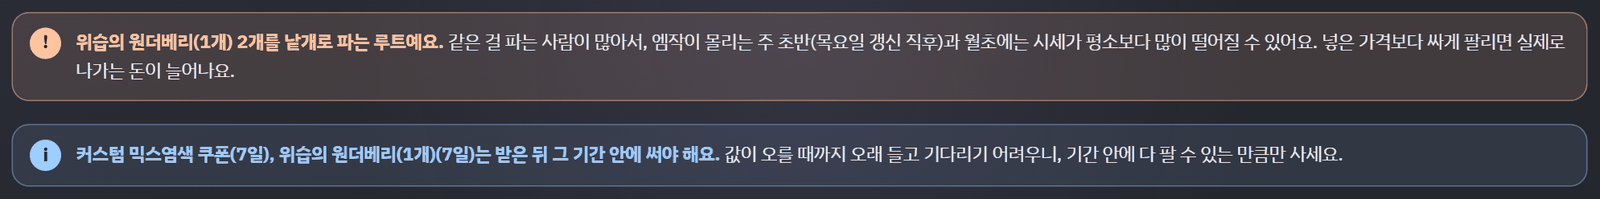
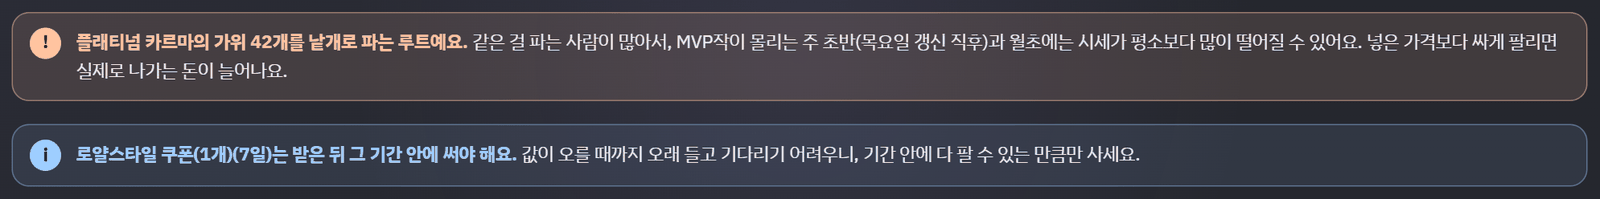
메포를 1,000원 단위로 사고 메포 결제에도 크레딧을 쌓는다
소개글은 MVP작 표현으로 바꾸고 플가 기준 루트 비교 예시를 넣는다.

Changed region(s): [[0.0312, 0.1508, 1.0, 0.2714], [0.0312, 0.7236, 0.8438, 0.8442], [0.0312, 0.3015, 0.1875, 0.4221]]

diff --git a/docs/post/eff-inven.html b/docs/post/eff-inven.html
@@ -5,8 +5,8 @@
 <div style="margin-top:6px; font-size:14px; color:#9a9cab;">위쪽 탭에서 <b style="color:#ecebf2;">효율표</b>를 누르세요</div>
 </div>
 
-<div style="margin-bottom:16px;">안녕하세요. 지난번에 올렸던 MVP 현황/목표 계산기에 <b>엠작 효율표</b>를 붙였습니다.</div>
-<div style="margin-bottom:20px;">엠작 계산기들이 회수율 %는 알려 주는데, 막상 "그래서 실제로 얼마가 나가는데? 뭘 몇 개 사서 어떻게 팔아야 하는데?"는 직접 조합해 봐야 하더라고요. 그걸 한 화면에서 끝내 주는 탭입니다.</div>
+<div style="margin-bottom:16px;">안녕하세요. 지난번에 올렸던 MVP 현황/목표 계산기에 <b>MVP작 효율표</b>를 붙였습니다.</div>
+<div style="margin-bottom:20px;">MVP작 계산기들이 회수율 %는 알려 주는데, 막상 "그래서 실제로 얼마가 나가는데? 뭘 몇 개 사서 어떻게 팔아야 하는데?"는 직접 조합해 봐야 하더라고요. 그걸 한 화면에서 끝내 주는 탭입니다.</div>
 
 <ul style="margin:0 0 20px; padding-left:22px;">
 <li style="margin-bottom:6px;"><b>플가 가격 하나만 넣으면</b> 다른 아이템마다 "이 가격 넘으면 플가보다 이득"인 기준가가 붙어요</li>
@@ -16,12 +16,11 @@
 <li style="margin-bottom:6px;"><b>목표 계획과 연동</b>하면 주마다 무엇을 얼마나 충전하고 사서 팔지 주별로</li>
 </ul>
 
-<div style="font-size:14px; color:#7b7c8a; margin-bottom:8px;">엄 시세·메소마켓·경매장 가격은 직접 넣는 방식이에요. 넥슨이 공식으로 주는 시세 데이터가 없어서요.</div>
 
 
 <div style="font-size:22px; font-weight:700; border-left:4px solid #6a4fd6; padding-left:11px; margin:38px 0 14px;">1. 입력은 위쪽 세 칸</div>
 <div style="margin-bottom:14px;">얼마나 결제할지, 캐시는 얼마에 충전하는지, 시세. 이 세 가지만 넣으면 돼요.</div>
-<img src="https://maple-mvp.com/post/eff/1-inputs.png?v=2" alt="입력 칸" style="width:100%; max-width:800px;">
+<img src="https://maple-mvp.com/post/eff/1-inputs.png?v=3" alt="입력 칸" style="width:100%; max-width:800px;">
 <ul style="margin:14px 0 0; padding-left:22px;">
 <li style="margin-bottom:6px;">목표 계획이 있으면 <b>목표 계획대로</b>, 없으면 <b>금액 직접</b>. 내 13주 합계 기준으로 "다이아까지 / 레드까지 / 블랙까지" 버튼도 있어요.</li>
 <li style="margin-bottom:6px;">상품권 할인은 <b>6</b>처럼 %로 넣어도, <b>47,000</b>처럼 5만원권 가격으로 넣어도 돼요.</li>
@@ -31,19 +30,19 @@
 
 <div style="font-size:22px; font-weight:700; border-left:4px solid #6a4fd6; padding-left:11px; margin:38px 0 14px;">2. 플가 가격 하나로 기준가</div>
 <div style="margin-bottom:14px;">왼쪽에 플가 가격만 넣으면, 아이템마다 흐린 숫자로 <b>이 가격 넘으면 플가보다 이득</b>인 기준가가 들어가요. 경매장에서 그보다 비싸게 올라온 것만 가격을 넣으면 됩니다.</div>
-<img src="https://maple-mvp.com/post/eff/2-table.png?v=2" alt="플가 기준 가격표" style="width:100%; max-width:800px;">
+<img src="https://maple-mvp.com/post/eff/2-table.png?v=3" alt="플가 기준 가격표" style="width:100%; max-width:800px;">
 <ul style="margin:14px 0 0; padding-left:22px;">
 <li style="margin-bottom:6px;">플가 줄을 경계로 위는 <b style="color:#1f8f67;">이득(초록)</b>, 아래는 <b style="color:#c26a32;">손해(주황)</b>. 플가 가격을 바꾸면 바로 다시 줄 서요.</li>
 <li style="margin-bottom:6px;"><b>플가 가격으로</b> 버튼을 누르면 "이 가격이면 플가를 몇 억에 판 셈인지"로 바꿔 볼 수 있어요.</li>
 <li style="margin-bottom:6px;">7일 / 14일 / 30일 / 무기한 사용 기간도 같이 보여요. 손해 보는 아이템은 숨길 수 있어요.</li>
 </ul>
-<div style="margin-top:14px;"><img src="https://maple-mvp.com/post/eff/2b-table-hidden.png?v=2" alt="손해 아이템 숨기기" style="width:100%; max-width:740px;"></div>
+<div style="margin-top:14px;"><img src="https://maple-mvp.com/post/eff/2b-table-hidden.png?v=3" alt="손해 아이템 숨기기" style="width:100%; max-width:740px;"></div>
 
 
 <div style="font-size:22px; font-weight:700; border-left:4px solid #6a4fd6; padding-left:11px; margin:38px 0 14px;">3. 메이플 크레딧까지</div>
-<img src="https://maple-mvp.com/post/eff/5b-credit.png?v=2" alt="메이플 크레딧" style="width:100%; max-width:800px;">
+<img src="https://maple-mvp.com/post/eff/5b-credit.png?v=3" alt="메이플 크레딧" style="width:100%; max-width:800px;">
 <ul style="margin:14px 0 0; padding-left:22px;">
-<li style="margin-bottom:6px;">캐시템을 산 금액의 5%가 크레딧으로 쌓여요. 남아 있던 크레딧도 합쳐서 계산해요.</li>
+<li style="margin-bottom:6px;">캐시샵에서 쓴 캐시의 5%가 크레딧으로 쌓여요. 캐시템도, 메소마켓에 팔 <b>메이플포인트를 살 때도</b> 똑같이 쌓여요. 남아 있던 크레딧도 합쳐서 계산해요.</li>
 <li style="margin-bottom:6px;">큐브 경매장 가격을 넣으면 크레딧당 효율이 가장 좋은 걸로 사서 파는 것까지 결과에 들어가요.</li>
 <li style="margin-bottom:6px;">끝에 남는 크레딧은 <b>다 털기 / 모아 두기</b> 중에 골라요. 모아 두면 에디셔널 큐브만 사고, 나머지는 다음 작 때 합쳐요.</li>
 </ul>
@@ -51,20 +50,33 @@
 
 <div style="font-size:22px; font-weight:700; border-left:4px solid #6a4fd6; padding-left:11px; margin:38px 0 14px;">4. 결론: 실제로 나가는 돈과 루트 3개</div>
 <div style="margin-bottom:14px;">가장 크게 보이는 숫자가 <b>실제로 나가는 돈</b>(넣은 현금 − 돌려받는 돈)이에요.</div>
-<img src="https://maple-mvp.com/post/eff/3-result.png?v=2" alt="결론" style="width:100%; max-width:800px;">
+<img src="https://maple-mvp.com/post/eff/3-result.png?v=3" alt="결론" style="width:100%; max-width:800px;">
 <ul style="margin:14px 0 0; padding-left:22px;">
 <li style="margin-bottom:6px;"><b>최저가 루트</b>: 판매 횟수는 따지지 않고 가장 적게 잃는 조합</li>
 <li style="margin-bottom:6px;"><b>최적화 루트</b>: 판매를 한 번 줄일 때 더 드는 돈이 <b>판매 1회 수고비(기본 2,000원)</b> 이하일 때만 줄인 조합. 수고비는 직접 바꿀 수 있어요.</li>
 <li style="margin-bottom:6px;">그래프로 판매 횟수를 줄이면 얼마나 비싸지는지 한눈에 보여요.</li>
 </ul>
+<div style="font-size:18px; font-weight:700; margin:26px 0 10px;">예시로 보면</div>
+<div style="margin-bottom:10px;">플가가 3억이라 효율 1, 2등을 다투고, 전승 스크롤·원더베리 11개가 바로 뒤(0.99플가)에 있는 흔한 상황이에요. 25만 원 결제, 수수료 3%, 크레딧 큐브까지 넣은 결과예요.</div>
+<table style="width:100%; max-width:800px; border-collapse:collapse; font-size:15px; margin-bottom:12px;">
+<tr><th style="padding:8px 10px; background:#f1eefc; text-align:left;">루트</th><th style="padding:8px 10px; background:#f1eefc; text-align:left;">무엇을 사서 파나</th><th style="padding:8px 10px; background:#f1eefc; text-align:right;">판매</th><th style="padding:8px 10px; background:#f1eefc; text-align:right;">실제로 나가는 돈</th></tr>
+<tr><td style="padding:8px 10px; border-bottom:1px solid #e3e3ea;"><b>최저가</b></td><td style="padding:8px 10px; border-bottom:1px solid #e3e3ea;">플가 42개 + 로얄 1개</td><td style="padding:8px 10px; border-bottom:1px solid #e3e3ea; text-align:right; white-space:nowrap;">43회</td><td style="padding:8px 10px; border-bottom:1px solid #e3e3ea; text-align:right; white-space:nowrap;"><b>41,340원</b></td></tr>
+<tr><td style="padding:8px 10px; border-bottom:1px solid #e3e3ea;"><b style="color:#6a4fd6;">최적화</b></td><td style="padding:8px 10px; border-bottom:1px solid #e3e3ea;">전승 스크롤 2개 + 원더베리(11개) 1세트</td><td style="padding:8px 10px; border-bottom:1px solid #e3e3ea; text-align:right; white-space:nowrap;">3회</td><td style="padding:8px 10px; border-bottom:1px solid #e3e3ea; text-align:right; white-space:nowrap;"><b>44,358원</b> <span style="color:#7b7c8a;">(+3,019원)</span></td></tr>
+<tr><td style="padding:8px 10px; border-bottom:1px solid #e3e3ea;"><b>횟수 정하기</b></td><td style="padding:8px 10px; border-bottom:1px solid #e3e3ea;">최대 5회로 정했을 때</td><td style="padding:8px 10px; border-bottom:1px solid #e3e3ea; text-align:right; white-space:nowrap;">5회</td><td style="padding:8px 10px; border-bottom:1px solid #e3e3ea; text-align:right; white-space:nowrap;"><b>44,019원</b> <span style="color:#7b7c8a;">(+2,679원)</span></td></tr>
+</table>
+<div style="margin-bottom:10px;">최저가는 가장 싸지만 경매장에 <b>43번</b> 올려야 해요. 최적화는 <b>3,019원</b>만 더 내고 판매를 <b>40번</b> 줄여요. 한 번 줄일 때 평균 <b>75원</b>이라 수고비 2,000원보다 훨씬 싸니 줄이는 게 이득이에요.</div>
+<div style="margin-bottom:10px;">반대로 한 번 줄이는 데 2,000원 넘게 드는 구간이면 최적화는 거기서 멈춰요. 그래서 전승 스크롤이 플가보다 효율이 한참 떨어지는 날에는 최적화도 플가 위주로 나와요.</div>
+<div style="margin-bottom:14px;">목표 계획(블랙까지 8주)으로 넓히면 차이가 더 커요. 최저가 <b>350,816원 · 368회</b>, 최적화 <b>375,957원 · 32회</b>. 25,141원 더 내고 경매장에 336번 덜 올려요.</div>
+<img src="https://maple-mvp.com/post/eff/3b-best.png?v=3" alt="최저가 루트" style="width:100%; max-width:800px;">
+
 <div style="margin:18px 0 14px;">그 아래에 <b>그대로 따라 하면 되는 순서</b>가 나와요.</div>
-<img src="https://maple-mvp.com/post/eff/5-route.png?v=2" alt="따라 할 순서" style="width:100%; max-width:800px;">
+<img src="https://maple-mvp.com/post/eff/5-route.png?v=3" alt="따라 할 순서" style="width:100%; max-width:800px;">
 
 
 <div style="font-size:22px; font-weight:700; border-left:4px solid #6a4fd6; padding-left:11px; margin:38px 0 14px;">5. 목표 계획과 이으면 주별로</div>
 <div style="margin-bottom:14px;">"11월 18일까지 블랙" 같은 계획이 있으면, 계획의 주별 금액 그대로 주마다 무엇을 얼마나 충전하고 사서 팔지 나눠 줘요.</div>
-<img src="https://maple-mvp.com/post/eff/8-plan-result.png?v=2" alt="계획 결론" style="width:100%; max-width:800px;">
-<div style="margin-top:14px;"><img src="https://maple-mvp.com/post/eff/9-weeks.png?v=2" alt="주별 표" style="width:100%; max-width:800px;"></div>
+<img src="https://maple-mvp.com/post/eff/8-plan-result.png?v=3" alt="계획 결론" style="width:100%; max-width:800px;">
+<div style="margin-top:14px;"><img src="https://maple-mvp.com/post/eff/9-weeks.png?v=3" alt="주별 표" style="width:100%; max-width:800px;"></div>
 <ul style="margin:14px 0 0; padding-left:22px;">
 <li style="margin-bottom:6px;">상품권은 할인이 큰 것부터, 그 달 한도가 남은 주에 써요. 달이 바뀌면 한도가 새로 생겨요.</li>
 <li style="margin-bottom:6px;">크레딧은 주마다 모아 가며 가장 효율적으로 털어요.</li>
@@ -74,26 +86,25 @@
 
 <div style="font-size:22px; font-weight:700; border-left:4px solid #6a4fd6; padding-left:11px; margin:38px 0 14px;">6. 판매 횟수 정하기</div>
 <div style="margin-bottom:14px;">"경매장에 몇십 번 올리긴 귀찮다" 하시면 판매 횟수를 정해 두고 그 안에서 가장 많이 남는 조합을 볼 수 있어요. 최저가보다 얼마 더 드는지도 같이 나와요.</div>
-<img src="https://maple-mvp.com/post/eff/10-count.png?v=2" alt="판매 횟수 정하기" style="width:100%; max-width:800px;">
-<div style="margin-top:14px;"><img src="https://maple-mvp.com/post/eff/4-cautions.png?v=2" alt="주의 문구" style="width:100%; max-width:800px;"></div>
-<div style="font-size:14px; color:#7b7c8a; margin-top:10px;">판매 횟수는 경매장에 올리는 횟수만 세요. 얼마나 빨리 팔리는지(회전율)는 계산에 없으니 실제로 팔리는 속도를 보고 고르세요.<br>플가·원더베리처럼 낱개로 많이 파는 루트는 엠작이 몰리는 주 초반·월초에 시세가 떨어질 수 있어요.</div>
+<img src="https://maple-mvp.com/post/eff/10-count.png?v=3" alt="판매 횟수 정하기" style="width:100%; max-width:800px;">
+<div style="margin-top:14px;"><img src="https://maple-mvp.com/post/eff/4-cautions.png?v=3" alt="주의 문구" style="width:100%; max-width:800px;"></div>
+<div style="font-size:14px; color:#7b7c8a; margin-top:10px;">판매 횟수는 경매장에 올리는 횟수만 세요. 얼마나 빨리 팔리는지(회전율)는 계산에 없으니 실제로 팔리는 속도를 보고 고르세요.<br>플가·원더베리처럼 낱개로 많이 파는 루트는 MVP작이 몰리는 주 초반·월초에 시세가 떨어질 수 있어요.</div>
 
 
 <div style="font-size:22px; font-weight:700; border-left:4px solid #6a4fd6; padding-left:11px; margin:38px 0 14px;">7. 나에게 맞는 방법</div>
 <div style="margin-bottom:14px;">천천히 기다릴 수 있는지, 빨리 메소로 바꾸고 싶은지, 판매 횟수를 줄이고 싶은지에 따라 맞는 아이템과 그때 얼마가 나가는지 보여 줘요.</div>
-<img src="https://maple-mvp.com/post/eff/6-styles.png?v=2" alt="나에게 맞는 방법" style="width:100%; max-width:800px;">
+<img src="https://maple-mvp.com/post/eff/6-styles.png?v=3" alt="나에게 맞는 방법" style="width:100%; max-width:800px;">
 
 
 <div style="font-size:22px; font-weight:700; border-left:4px solid #6a4fd6; padding-left:11px; margin:38px 0 14px;">8. 목록에 없는 아이템은 직접 추가</div>
 <div style="margin-bottom:14px;">이름, 캐시 가격, 묶음 개수, 사용 기간만 넣으면 플가 기준가가 자동으로 붙고 계산에 들어가요.</div>
-<img src="https://maple-mvp.com/post/eff/7-add.png?v=2" alt="직접 추가" style="width:100%; max-width:740px;">
+<img src="https://maple-mvp.com/post/eff/7-add.png?v=3" alt="직접 추가" style="width:100%; max-width:740px;">
 
 
 <div style="font-size:22px; font-weight:700; border-left:4px solid #6a4fd6; padding-left:11px; margin:38px 0 14px;">알아 두실 것</div>
 <ul style="margin:0; padding-left:22px;">
 <li style="margin-bottom:6px;">넣은 값은 이 브라우저에 저장되고, <b>로그인하면 계정에도 저장</b>돼서 다른 기기에서도 이어서 쓸 수 있어요.</li>
-<li style="margin-bottom:6px;">시세는 "며칠 전에 넣은 값"으로 표시돼요. 오래된 값이면 새로 넣어 주세요.</li>
-<li style="margin-bottom:6px;">크레딧은 캐시샵 아이템을 살 때만 쌓인다고 보고 계산해요(메이플포인트로 사는 메소마켓 몫은 빼요).</li>
+<li style="margin-bottom:6px;">메이플포인트는 1,000원 단위로만 살 수 있어서, 계획대로 결제할 때 딱 못 맞추면 1,000원 안쪽으로 조금 더 결제하는 루트가 나올 수 있어요.</li>
 <li style="margin-bottom:6px;">위 그림의 숫자는 예시예요.</li>
 </ul>
 

diff --git a/frontend/src/lib/core/efficiency.test.ts b/frontend/src/lib/core/efficiency.test.ts
@@ -56,12 +56,24 @@ describe('조합', () => {
     expect(minPrice(3, 99_000)).toBeCloseTo(50.339, 2)
   })
 
-  it('가장 많이 남게: 플가로 채우고 끝자리는 메소마켓', () => {
+  it('계획: 계획 금액에 딱 맞는 조합 중에서 고른다(메포는 1,000원 단위)', () => {
+    // 99,000원에 딱 맞는 건 전승 1장, 플가 10개 + 메포 4만, 메포 9.9만뿐. 플가 16개 + 메포 4,600원은 메포 단위가 안 맞는다
     const r = solve({ ...base, target: 99_000, items: [karma, potential] })!
-    expect(r.best.lines).toEqual([{ item: karma, n: 16 }])
-    expect(r.best.market).toBe(4_600)
-    expect(r.best.sales).toBe(17)
-    expect(r.best.back).toBeCloseTo(16 * 3 * 0.97 * 1500 + 4600 / 2300 * 1500)
+    expect(r.best.pay).toBe(99_000)
+    expect(r.best.lines).toEqual([{ item: potential, n: 1 }])
+    expect(r.best.market % 1000).toBe(0)
+  })
+
+  it('금액 직접: 조금 넘겨 사는 게 더 남으면 그렇게 한다', () => {
+    const r = solve({ ...base, target: 99_000, items: [karma, potential], exact: false })!
+    expect(r.best.lines).toEqual([{ item: karma, n: 17 }])
+    expect(r.best.pay).toBe(100_300)
+  })
+
+  it('메포로 끝자리를 채울 때는 1,000원 단위로 올려 산다', () => {
+    const r = solve({ ...base, target: 99_000, items: [karma], exact: false })!
+    expect(r.best.market % 1000).toBe(0)
+    expect(r.best.pay).toBe(r.best.lines.reduce((a, l) => a + l.n * l.item.cash, 0) + r.best.market)
   })
 
   it('판매 1회로 정하면 전승 스크롤 한 장이 메소마켓보다 낫다', () => {
@@ -69,7 +81,7 @@ describe('조합', () => {
     const one = r.routeAt(1)
     expect(one.lines).toEqual([{ item: potential, n: 1 }])
     expect(one.sales).toBe(1)
-    expect(one.loss).toBeGreaterThan(r.best.loss)
+    expect(one.loss).toBeGreaterThanOrEqual(r.best.loss)
     expect(r.lossAt[1]).toBeCloseTo(one.loss)
     // 횟수가 늘면 잃는 돈은 줄거나 같다
     for (let k = 2; k < r.lossAt.length; k++) expect(r.lossAt[k]).toBeLessThanOrEqual(r.lossAt[k - 1] + 1e-6)
@@ -141,15 +153,21 @@ describe('모든 조합을 다 따져 본 답과 같다', () => {
 
       // 다 대입: 아이템 개수 조합 + 남는 금액은 메소마켓(있으면 1회)
       const keep = 0.97 * 1500, mk1 = mk ? 1500 / mk : 0
-      const top = Math.ceil(target / 100) * 100 + Math.max(...items.map(x => x.cash))
+      const T100 = Math.ceil(target / 100) * 100
+      const top = T100 + Math.max(900, ...items.map(x => x.cash))
       let bySales = new Map<number, number>()
       let bestLoss = Infinity
-      let strict = exact
+      // 앱과 같은 순서: 계획이면 딱 맞게 → 1,000원 안쪽 → 자유롭게
+      let tier = exact ? 0 : 2
       const walk = (j: number, cash: number, back: number, sales: number) => {
         if (j === items.length) {
           const cands: [number, number, number][] = []
-          if (cash >= target && (!strict || cash === Math.ceil(target / 100) * 100)) cands.push([cash, back, sales])
-          if (mk1 && cash < target) { const pay = Math.ceil(target / 100) * 100; cands.push([pay, back + (pay - cash) * mk1, sales + 1]) }
+          const limit = tier === 0 ? T100 : tier === 1 ? T100 + 900 : top
+          if (cash >= T100 && cash <= limit) cands.push([cash, back, sales])
+          if (mk1 && cash < T100) {
+            const m = Math.ceil((T100 - cash) / 1000) * 1000
+            if (cash + m <= limit) cands.push([cash + m, back + m * mk1, sales + 1])
+          }
           for (const [pay, b, s] of cands) {
             const loss = pay * rate - b
             bestLoss = Math.min(bestLoss, loss)
@@ -161,7 +179,7 @@ describe('모든 조합을 다 따져 본 답과 같다', () => {
       }
       walk(0, 0, 0, 0)
       // 계획처럼 딱 맞춰야 하는데 안 되면 앱은 넘겨 사는 쪽으로 물러선다. 정답도 똑같이 다시 구한다
-      if (!Number.isFinite(bestLoss) && strict) { strict = false; bySales = new Map(); walk(0, 0, 0, 0) }
+      while (!Number.isFinite(bestLoss) && tier < 2) { tier++; bySales = new Map(); walk(0, 0, 0, 0) }
       if (!Number.isFinite(bestLoss)) { expect(r).toBeNull(); continue }
       expect(r).not.toBeNull()
       if (!r) continue
@@ -200,13 +218,18 @@ describe('메이플 크레딧', () => {
     near(creditWonPer([prime, add], 0.03, 1500), 16 * 0.97 * 1500 / 20_000, 1e-9)
   })
 
-  it('크레딧이 쌓이면 메소마켓보다 조금 못한 캐시템도 사는 게 낫다', () => {
+  it('메이플포인트를 사서 메소마켓에 팔아도 크레딧이 쌓인다', () => {
+    const base = { target: 99_000, costOf: (c: number) => c, fee: 0.03, um: 1500, mk: 2250, items: [], exact: true }
+    const r = solve({ ...base, creditPer: creditWonPer([prime, add], 0.03, 1500) })!.best
+    expect(r.market).toBe(99_000)
+    expect(r.credits).toBe(4_950)
+  })
+
+  it('크레딧은 캐시템과 메포에 똑같이 붙으니 둘 사이 순서를 바꾸지 않는다', () => {
     const scroll: Sellable = { id: 'potential', name: '잠재옵션 전승 스크롤', set: 1, cash: 99_000, price: 45 }
     const base = { target: 99_000, costOf: (c: number) => c, fee: 0.03, um: 1500, mk: 2250, items: [scroll], exact: true }
     expect(solve(base)!.best.lines).toEqual([])
-    const withCredit = solve({ ...base, creditPer: creditWonPer([prime, add], 0.03, 1500) })!.best
-    expect(withCredit.lines).toEqual([{ item: scroll, n: 1 }])
-    expect(withCredit.credits).toBe(4_950)
+    expect(solve({ ...base, creditPer: creditWonPer([prime, add], 0.03, 1500) })!.best.lines).toEqual([])
   })
 
   it('계획: 중간 주에는 효율 좋은 큐브만, 모자라면 모아 뒀다가 마지막에 턴다', () => {
@@ -220,10 +243,10 @@ describe('메이플 크레딧', () => {
       um: 1500, mk: 2250, items: [karma], fee: 0.03, exact: true, credit: { items: [prime, add] },
     })!
     const p = pickAt(res, null, { balance: 0, items: [prime, add] })
-    // 한 주에 플가 42개 = 12,390크레딧: 첫 주에는 에디(2만)를 못 사서 모아 두고, 둘째 주에 에디 1개
+    // 한 주에 25만 원어치(플가 + 메포) = 12,500크레딧: 첫 주에는 에디(2만)를 못 사서 모아 두고, 둘째 주에 에디 1개
     expect(p.weeks[0].credit!.buys).toEqual([])
     expect(p.weeks[1].credit!.buys.map(b => [b.item.id, b.n])).toEqual([['primeadd', 1]])
-    expect(p.creditLeft).toBe(2 * 42 * 5900 * 0.05 - 20_000)
+    expect(p.creditLeft).toBe(2 * 250_000 * 0.05 - 20_000)
     near(p.creditBack, 16 * 0.97 * 1500)
     near(p.loss, p.cost - p.back)
   })

diff --git a/frontend/src/lib/core/efficiency.ts b/frontend/src/lib/core/efficiency.ts
@@ -119,7 +119,7 @@ export function fund(c: number, x: FundCtx): Funding {
 
 // ---- 메이플 크레딧 ----
 
-/** 캐시템을 사면 산 금액의 5%가 메이플 크레딧으로 쌓인다(메이플포인트로 사는 메소마켓 몫은 넣지 않는다) */
+/** 캐시샵에서 쓴 캐시의 5%가 메이플 크레딧으로 쌓인다. 캐시템도, 메소마켓에 팔 메이플포인트를 사는 것도 똑같다 */
 export const CREDIT_RATE = 0.05
 
 /** 크레딧샵 물건. price는 경매장 한 번 판매 가격(억) */
@@ -218,6 +218,8 @@ export interface Solved {
 
 /** 판매 횟수를 이만큼까지만 층으로 쌓는다. 그 위는 최저가 루트와 같다고 본다 */
 const MAX_LAYERS = 600
+/** 메이플포인트는 1,000원 단위로만 산다(계산 단위 100원의 10배) */
+const MU = 10
 
 export function solve(o: SolveIn): Solved | null {
   const keep = (1 - o.fee) * o.um
@@ -225,19 +227,23 @@ export function solve(o: SolveIn): Solved | null {
   // back: 경매장에서 돌려받는 돈, val: 거기에 쌓이는 크레딧 값까지 더한 것(조합 고르기용)
   const usable = o.items.filter(x => x.price > 0).map(x => ({ x, u: Math.round(x.cash / U), back: x.price * keep, val: x.price * keep + x.cash * CREDIT_RATE * cp }))
   const mk1 = o.mk > 0 ? U / o.mk * o.um : 0
+  // 메이플포인트도 캐시샵에서 사므로 크레딧이 쌓인다. 조합을 고를 때는 그 값까지 본다
+  const mkVal = mk1 ? mk1 + U * CREDIT_RATE * cp : 0
   const need = Math.ceil(o.target / U)
   if (need <= 0) return null
   if (!usable.length && !mk1) return null
-  const run = (exact: boolean) => {
-    const A = exact ? need : need + Math.max(0, ...usable.map(v => v.u))
+  // 계획을 따를 때는 먼저 계획 금액에 딱 맞춰 본다. 메포가 1,000원 단위라 안 맞으면 1,000원 안쪽으로 넘기고,
+  // 그래도 안 되면(메소마켓 시세가 없을 때 등) 필요한 만큼 넘겨 산다
+  const run = (mode: 'tight' | 'near' | 'free') => {
+    const A = mode === 'tight' ? need : mode === 'near' ? need + MU - 1 : need + Math.max(MU - 1, ...usable.map(v => v.u))
     const cost = new Float64Array(A + 1)
     for (let a = 0; a <= A; a++) cost[a] = o.costOf(a * U)
     return { A, cost }
   }
-  let { A, cost } = run(o.exact)
+  let { A, cost } = run(o.exact ? 'tight' : 'free')
 
   const finish = (counts: Map<number, number>, market: number, pay: number): Route => {
-    let back = market / U * mk1, sales = market ? 1 : 0, meso = 0, credits = 0
+    let back = market / U * mk1, sales = market ? 1 : 0, meso = 0, credits = market * CREDIT_RATE
     const lines: Line[] = []
     for (const [j, n] of counts) {
       back += n * usable[j].back; sales += n; meso += n * usable[j].x.price * (1 - o.fee)
@@ -255,7 +261,7 @@ export function solve(o: SolveIn): Solved | null {
     const v = new Float64Array(A + 1).fill(NEG), how = new Int16Array(A + 1).fill(-3), mkIn = new Uint8Array(A + 1)
     v[0] = 0
     for (let a = 1; a <= A; a++) {
-      if (mk1 && v[a - 1] > NEG) { v[a] = v[a - 1] + mk1 - (mkIn[a - 1] ? 0 : EPS); how[a] = -2; mkIn[a] = 1 }
+      if (mk1 && a >= MU && v[a - MU] > NEG) { v[a] = v[a - MU] + MU * mkVal - (mkIn[a - MU] ? 0 : EPS); how[a] = -2; mkIn[a] = 1 }
       for (let j = 0; j < usable.length; j++) {
         const q = usable[j]
         if (q.u > a || v[a - q.u] <= NEG) continue
@@ -269,12 +275,13 @@ export function solve(o: SolveIn): Solved | null {
     const counts = new Map<number, number>(); let m = 0
     for (let a = pick; a > 0;) {
       const h = how[a]
-      if (h === -2) { m += U; a-- } else { counts.set(h, (counts.get(h) ?? 0) + 1); a -= usable[h].u }
+      if (h === -2) { m += MU * U; a -= MU } else { counts.set(h, (counts.get(h) ?? 0) + 1); a -= usable[h].u }
     }
     return finish(counts, m, pick * U)
   }
   let best = best1()
-  if (!best && o.exact) { ({ A, cost } = run(false)); best = best1() }
+  if (!best && o.exact) { ({ A, cost } = run('near')); best = best1() }
+  if (!best && o.exact) { ({ A, cost } = run('free')); best = best1() }
   if (!best) return null
   const K = best.sales
 
@@ -290,7 +297,11 @@ export function solve(o: SolveIn): Solved | null {
     for (let a = 0; a <= A; a++) {
       if (row[a] <= NEG) continue
       if (a >= need) put(k, row[a] - cost[a], { k, a, m: 0, tot: a })
-      else if (mk1) put(k + 1, row[a] + (need - a) * mk1 - cost[need], { k, a, m: need - a, tot: need })
+      else if (mk1) {
+        // 모자라는 만큼 메포로. 1,000원 단위로 올려 산다
+        const m = Math.ceil((need - a) / MU) * MU, tot = a + m
+        if (tot <= A) put(k + 1, row[a] + m * mkVal - cost[tot], { k, a, m, tot })
+      }
     }
   }
   let prev = new Float64Array(A + 1).fill(NEG); prev[0] = 0

diff --git a/frontend/src/lib/core/efficiency.scenario.test.ts b/frontend/src/lib/core/efficiency.scenario.test.ts
@@ -50,7 +50,9 @@ function checkPick(p: RoutePick, res: WeekResult[], c: Plan) {
   for (const { w, route, funding } of p.weeks) {
     const target = Math.ceil(w.amount / 100) * 100
     expect(route.pay).toBeGreaterThanOrEqual(target)
-    if (c.exact && c.mk > 0) expect(route.pay).toBe(target)
+    // 계획이면 계획 금액 그대로. 메포가 1,000원 단위라 딱 못 맞추면 1,000원 안쪽으로만 넘긴다
+    if (c.exact && c.mk > 0) expect(route.pay).toBeLessThan(target + 1000)
+    expect(route.market % 1000).toBe(0)
     // 충전: 합이 결제액, 상품권은 5만원권 + 3천 원 단위, 그 주 한도 안
     near(funding.parts.reduce((a, q) => a + q.cash, 0), route.pay)
     for (const q of funding.parts) {
@@ -220,8 +222,8 @@ describe('시세·아이템', () => {
     const x = run({ weeks: once(250_000), exact: true, items: sell({ karma: 3.1 }) })
     const l = x.r.best.weeks[0].route
     expect(l.lines.map(v => v.item.id)).toEqual([PG_ID])
-    expect(l.lines[0].n).toBe(Math.floor(250_000 / 5900))
-    expect(l.market).toBe(250_000 - l.lines[0].n * 5900)
+    expect(l.market % 1000).toBe(0)
+    expect(l.pay).toBe(l.lines[0].n * 5900 + l.market)
   })
 
   it('메소마켓 시세를 비우면 끝자리를 못 맞춰 조금 넘겨 산다', () => {
@@ -288,9 +290,9 @@ describe('메이플 크레딧까지 넣었을 때', () => {
     const res = planAll(p)!
     const r = routesOf(res, c.salesN ?? 10, { balance, items })
     for (const pick of [r.best, r.knee, r.count]) {
-      // 쌓인 크레딧 = 산 캐시템 금액의 5%, 쓴 것 + 남은 것 = 남아 있던 것 + 쌓인 것
+      // 쌓인 크레딧 = 캐시샵에서 쓴 캐시(캐시템 + 메이플포인트)의 5%, 쓴 것 + 남은 것 = 남아 있던 것 + 쌓인 것
       const earned = pick.weeks.reduce((a, w) => a + w.credit!.earned, 0)
-      near(earned, pick.weeks.reduce((a, w) => a + w.route.lines.reduce((s, l) => s + l.n * l.item.cash, 0) * 0.05, 0), 1e-6)
+      near(earned, pick.weeks.reduce((a, w) => a + w.route.pay * 0.05, 0), 1e-6)
       const used = pick.weeks.reduce((a, w) => a + w.credit!.used, 0)
       near(used + pick.creditLeft, balance + earned, 1e-6)
       expect(pick.creditLeft).toBeGreaterThanOrEqual(0)

diff --git a/frontend/src/lib/components/EffCredit.svelte b/frontend/src/lib/components/EffCredit.svelte
@@ -2,7 +2,7 @@
   /**
    * 5. 메이플 크레딧.
    *
-   * 캐시템을 산 금액의 5%가 크레딧으로 쌓인다. 크레딧샵 큐브를 사서 경매장에 팔면 그만큼 더 돌려받는다.
+   * 캐시샵에서 쓴 캐시(캐시템, 메이플포인트)의 5%가 크레딧으로 쌓인다. 크레딧샵 큐브를 사서 경매장에 팔면 그만큼 더 돌려받는다.
    * 크레딧당 가장 많이 받는 물건 기준으로 조합을 고를 때 반영하고, 실제로는 살 수 있는 개수만큼만 산다.
    * 계획을 따르면 주마다 쌓이는 크레딧을 모아 가며 가장 효율적으로 턴다.
    */
@@ -43,7 +43,7 @@
 </script>
 
 <article class="card">
-  <h3 class="card-title"><span class="n">5</span>메이플 크레딧 <span class="sub">캐시템을 산 금액의 {Math.round(CREDIT_RATE * 100)}%가 크레딧으로 쌓여요</span></h3>
+  <h3 class="card-title"><span class="n">5</span>메이플 크레딧 <span class="sub">캐시샵에서 쓴 캐시의 {Math.round(CREDIT_RATE * 100)}%가 크레딧으로 쌓여요</span></h3>
 
   <div class="wrap">
     <div class="left">
@@ -121,7 +121,7 @@
       {/if}
     </div>
   </div>
-  <p class="ef-hint">크레딧은 캐시샵 아이템을 살 때만 쌓인다고 보고 계산해요(메이플포인트로 사는 메소마켓 몫은 빼요). 큐브는 받은 뒤 30일 안에 써야 해요.</p>
+  <p class="ef-hint">캐시템을 살 때도, 메소마켓에 팔 메이플포인트를 살 때도 크레딧이 쌓여요. 큐브는 받은 뒤 30일 안에 써야 해요.</p>
 </article>
 
 <style>

diff --git a/frontend/src/lib/components/EffResult.svelte b/frontend/src/lib/components/EffResult.svelte
@@ -172,7 +172,7 @@
     {#if cheapSingles.length}
       <div class="caution">
         <i aria-hidden="true">!</i>
-        <span><b>{cheapSingles.join(', ')}{eul(cheapSingles.at(-1)!)} 낱개로 파는 루트예요.</b> 같은 걸 파는 사람이 많아서, 엠작이 몰리는 주 초반(목요일 갱신 직후)과 월초에는 시세가 평소보다 많이 떨어질 수 있어요. 넣은 가격보다 싸게 팔리면 실제로 나가는 돈이 늘어나요.</span>
+        <span><b>{cheapSingles.join(', ')}{eul(cheapSingles.at(-1)!)} 낱개로 파는 루트예요.</b> 같은 걸 파는 사람이 많아서, MVP작이 몰리는 주 초반(목요일 갱신 직후)과 월초에는 시세가 평소보다 많이 떨어질 수 있어요. 넣은 가격보다 싸게 팔리면 실제로 나가는 돈이 늘어나요.</span>
       </div>
     {/if}
     {#if timedIn.length}
@@ -267,7 +267,7 @@
     </section>
 
     <p class="extra">
-      {#if pick.pay > out.target}<span>목표보다 {won(pick.pay - out.target)}원 더 결제하는 게 더 남아서 그렇게 짰어요</span>{/if}
+      {#if pick.pay > out.target}<span>{out.mode === 'plan' ? `메이플포인트를 1,000원 단위로만 살 수 있어서 계획보다 ${won(pick.pay - out.target)}원 더 결제해요` : `목표보다 ${won(pick.pay - out.target)}원 더 결제하는 게 더 남아서 그렇게 짰어요`}</span>{/if}
       <span>엄 시세가 100원 내리면 {won(pick.back / eff.um * 100)}원 더 나가요</span>
     </p>
   {:else}
